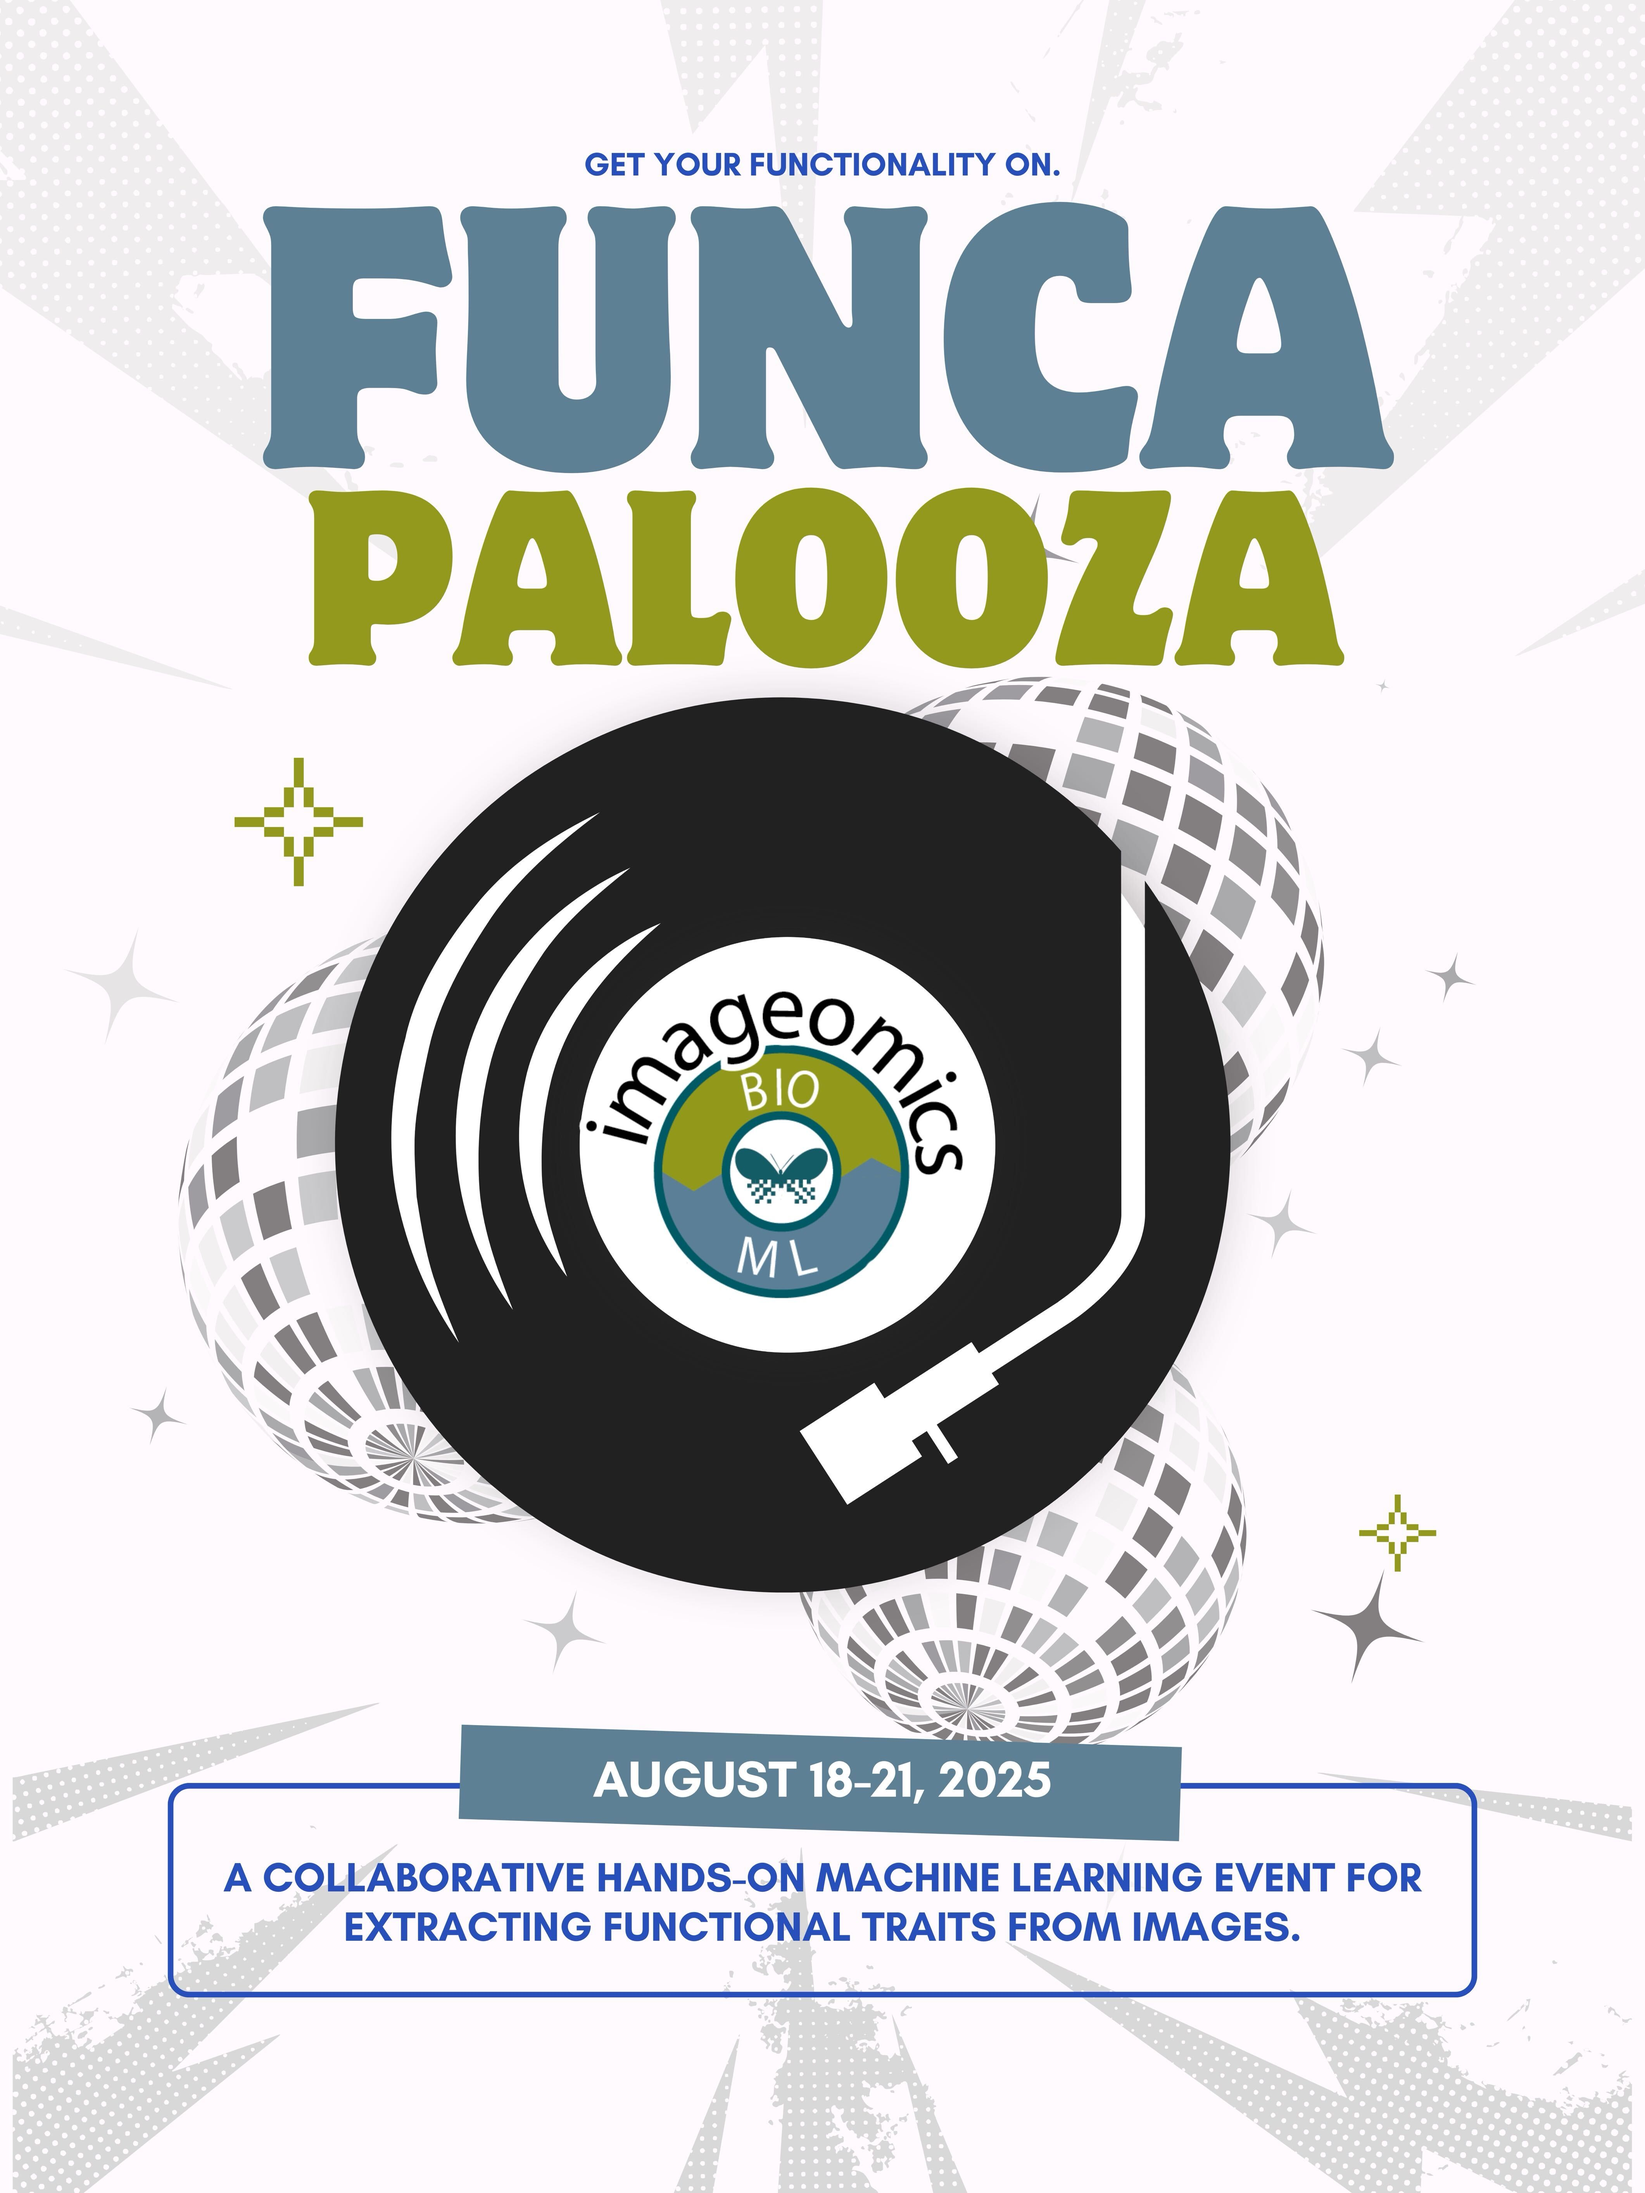
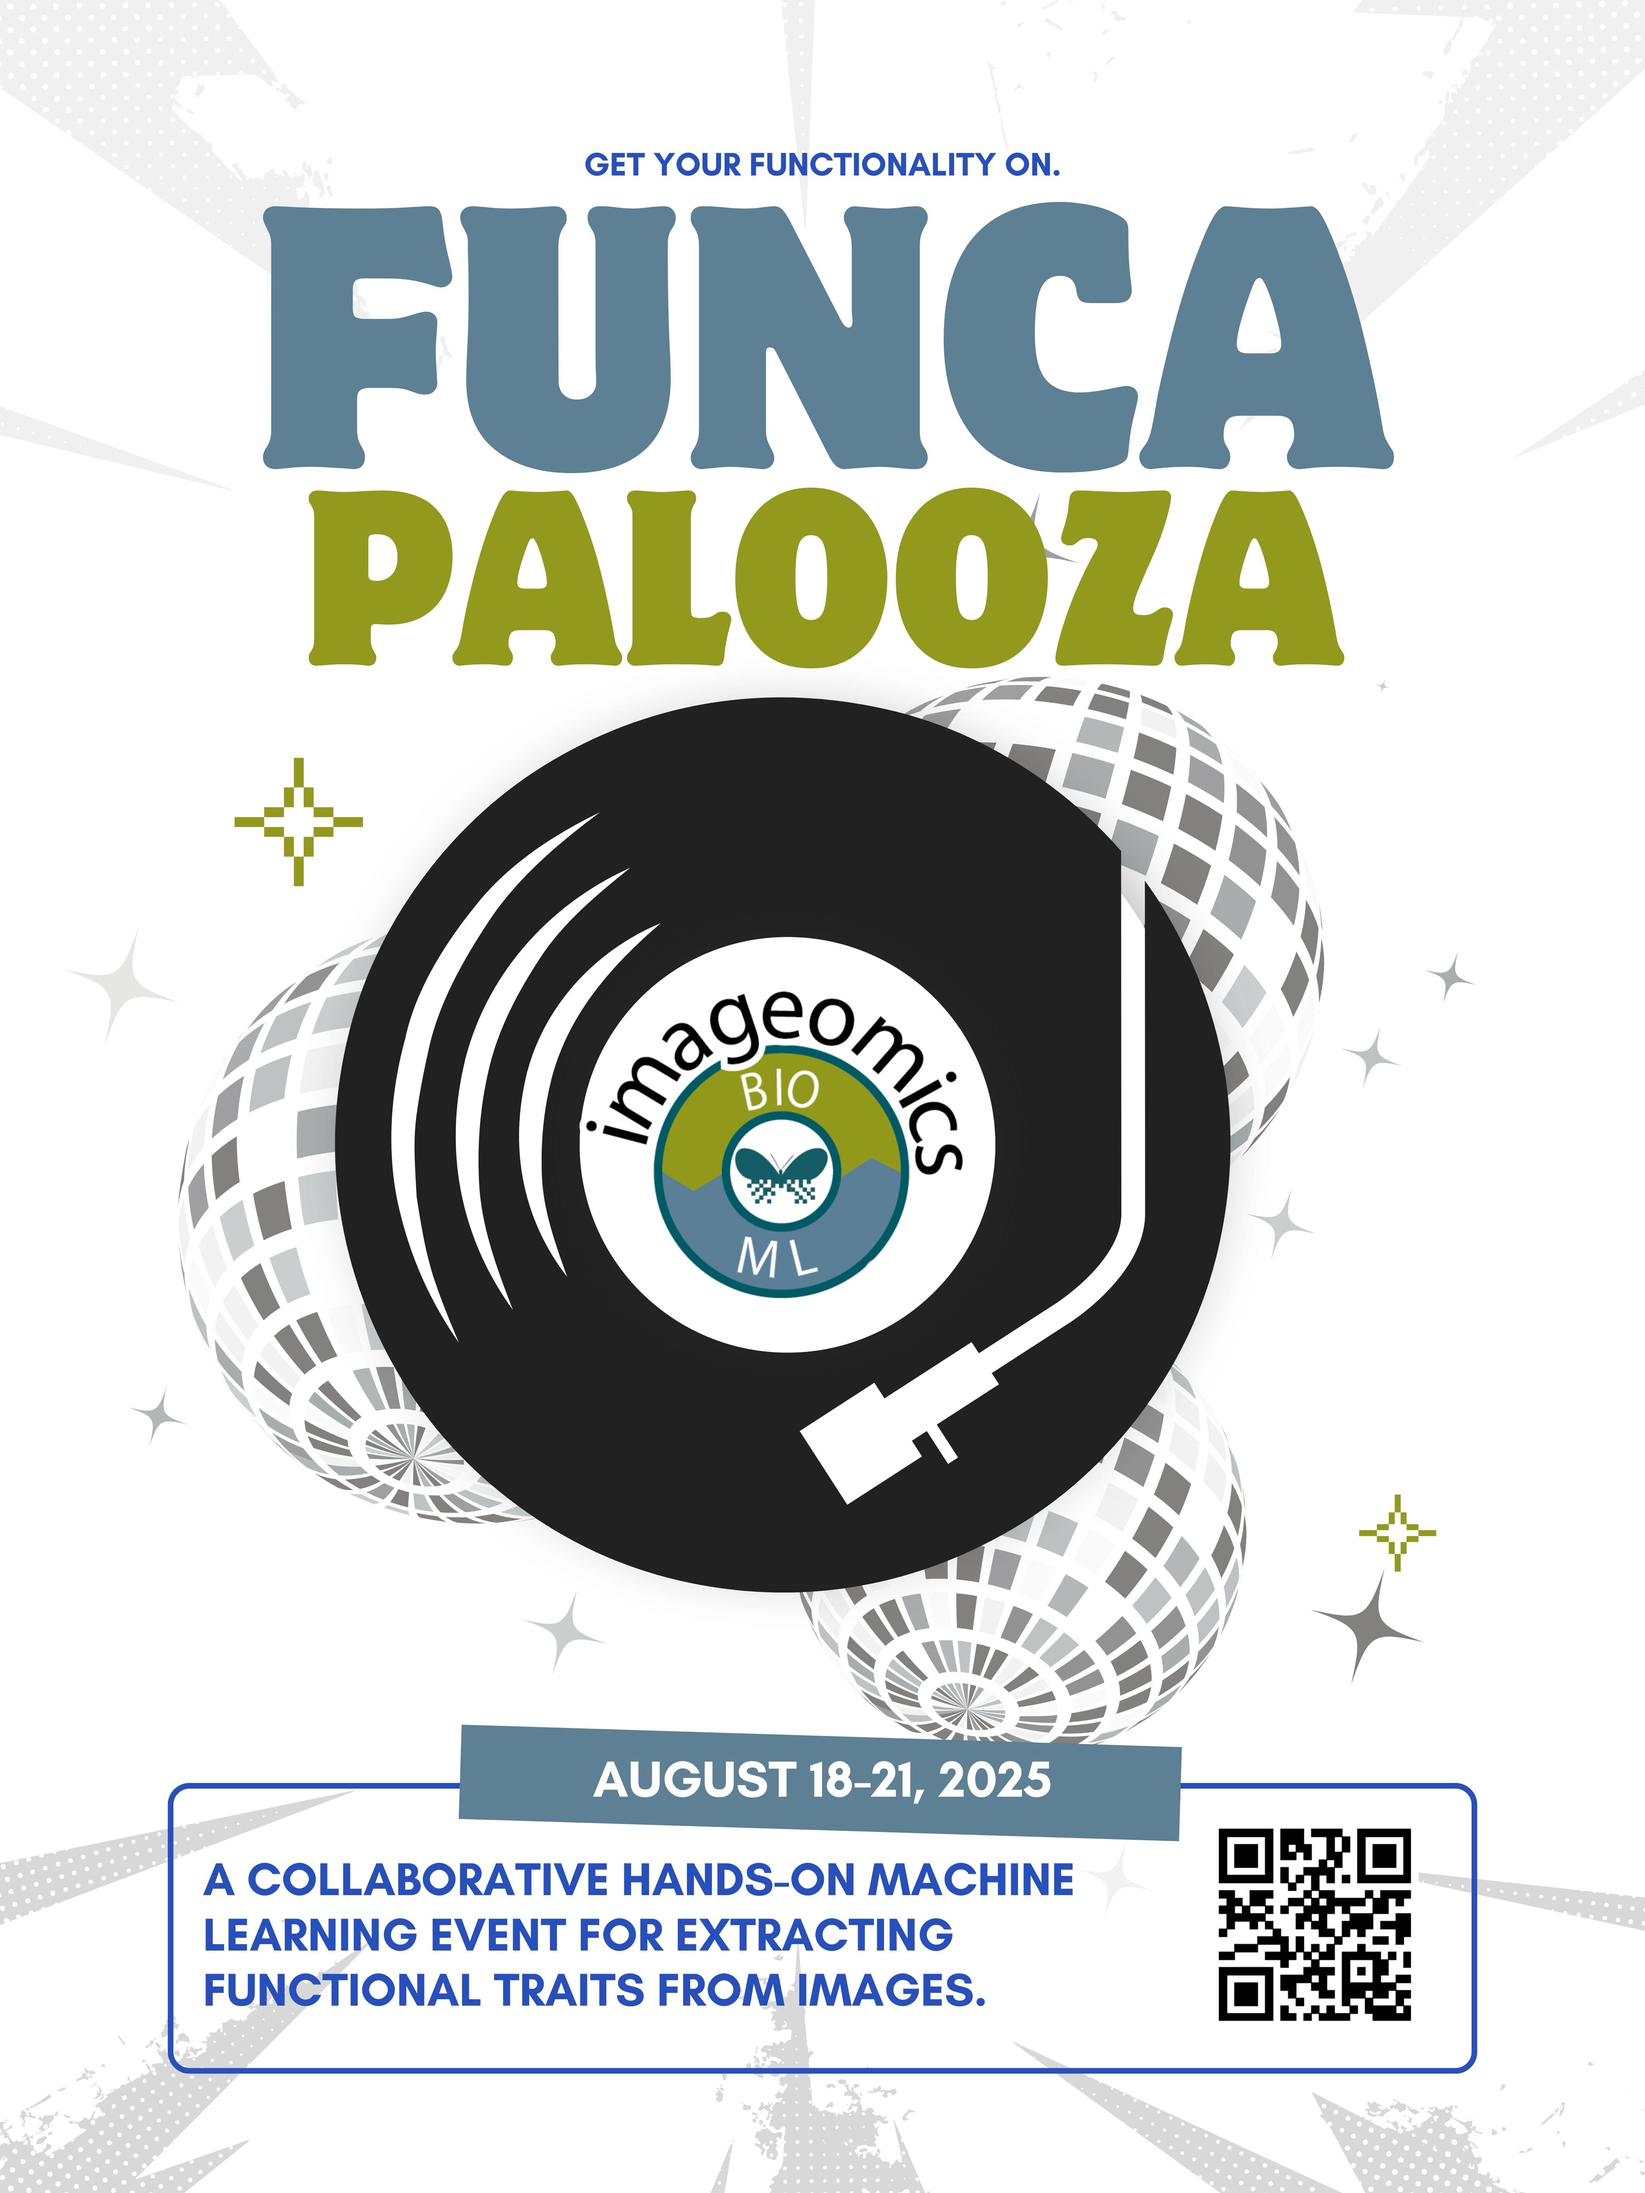
Add disco flyer and update record flyer

Changed region(s): [[0.0, 0.7778, 1.0, 1.0]]

diff --git a/README.md b/README.md
@@ -1,4 +1,4 @@
 # FuncaPalooza 2025
 A collaborative hands-on event for extracting functional traits from images at OSU, Aug 18-21, 2025.
 
-![FuncaPalooza 2025 flyer with record and event info: Aug 18-21, 2025, A collaborative hands-on event for extracting functional traits from images](https://github.com/Imageomics/FuncaPalooza-2025/raw/main/FuncaPalooza-2025-flyer.jpg)
+![FuncaPalooza 2025 flyer with record and event info: Aug 18-21, 2025, A collaborative hands-on event for extracting functional traits from images](https://github.com/Imageomics/FuncaPalooza-2025/raw/main/FuncaPalooza-2025-flyer-disco.jpg)
